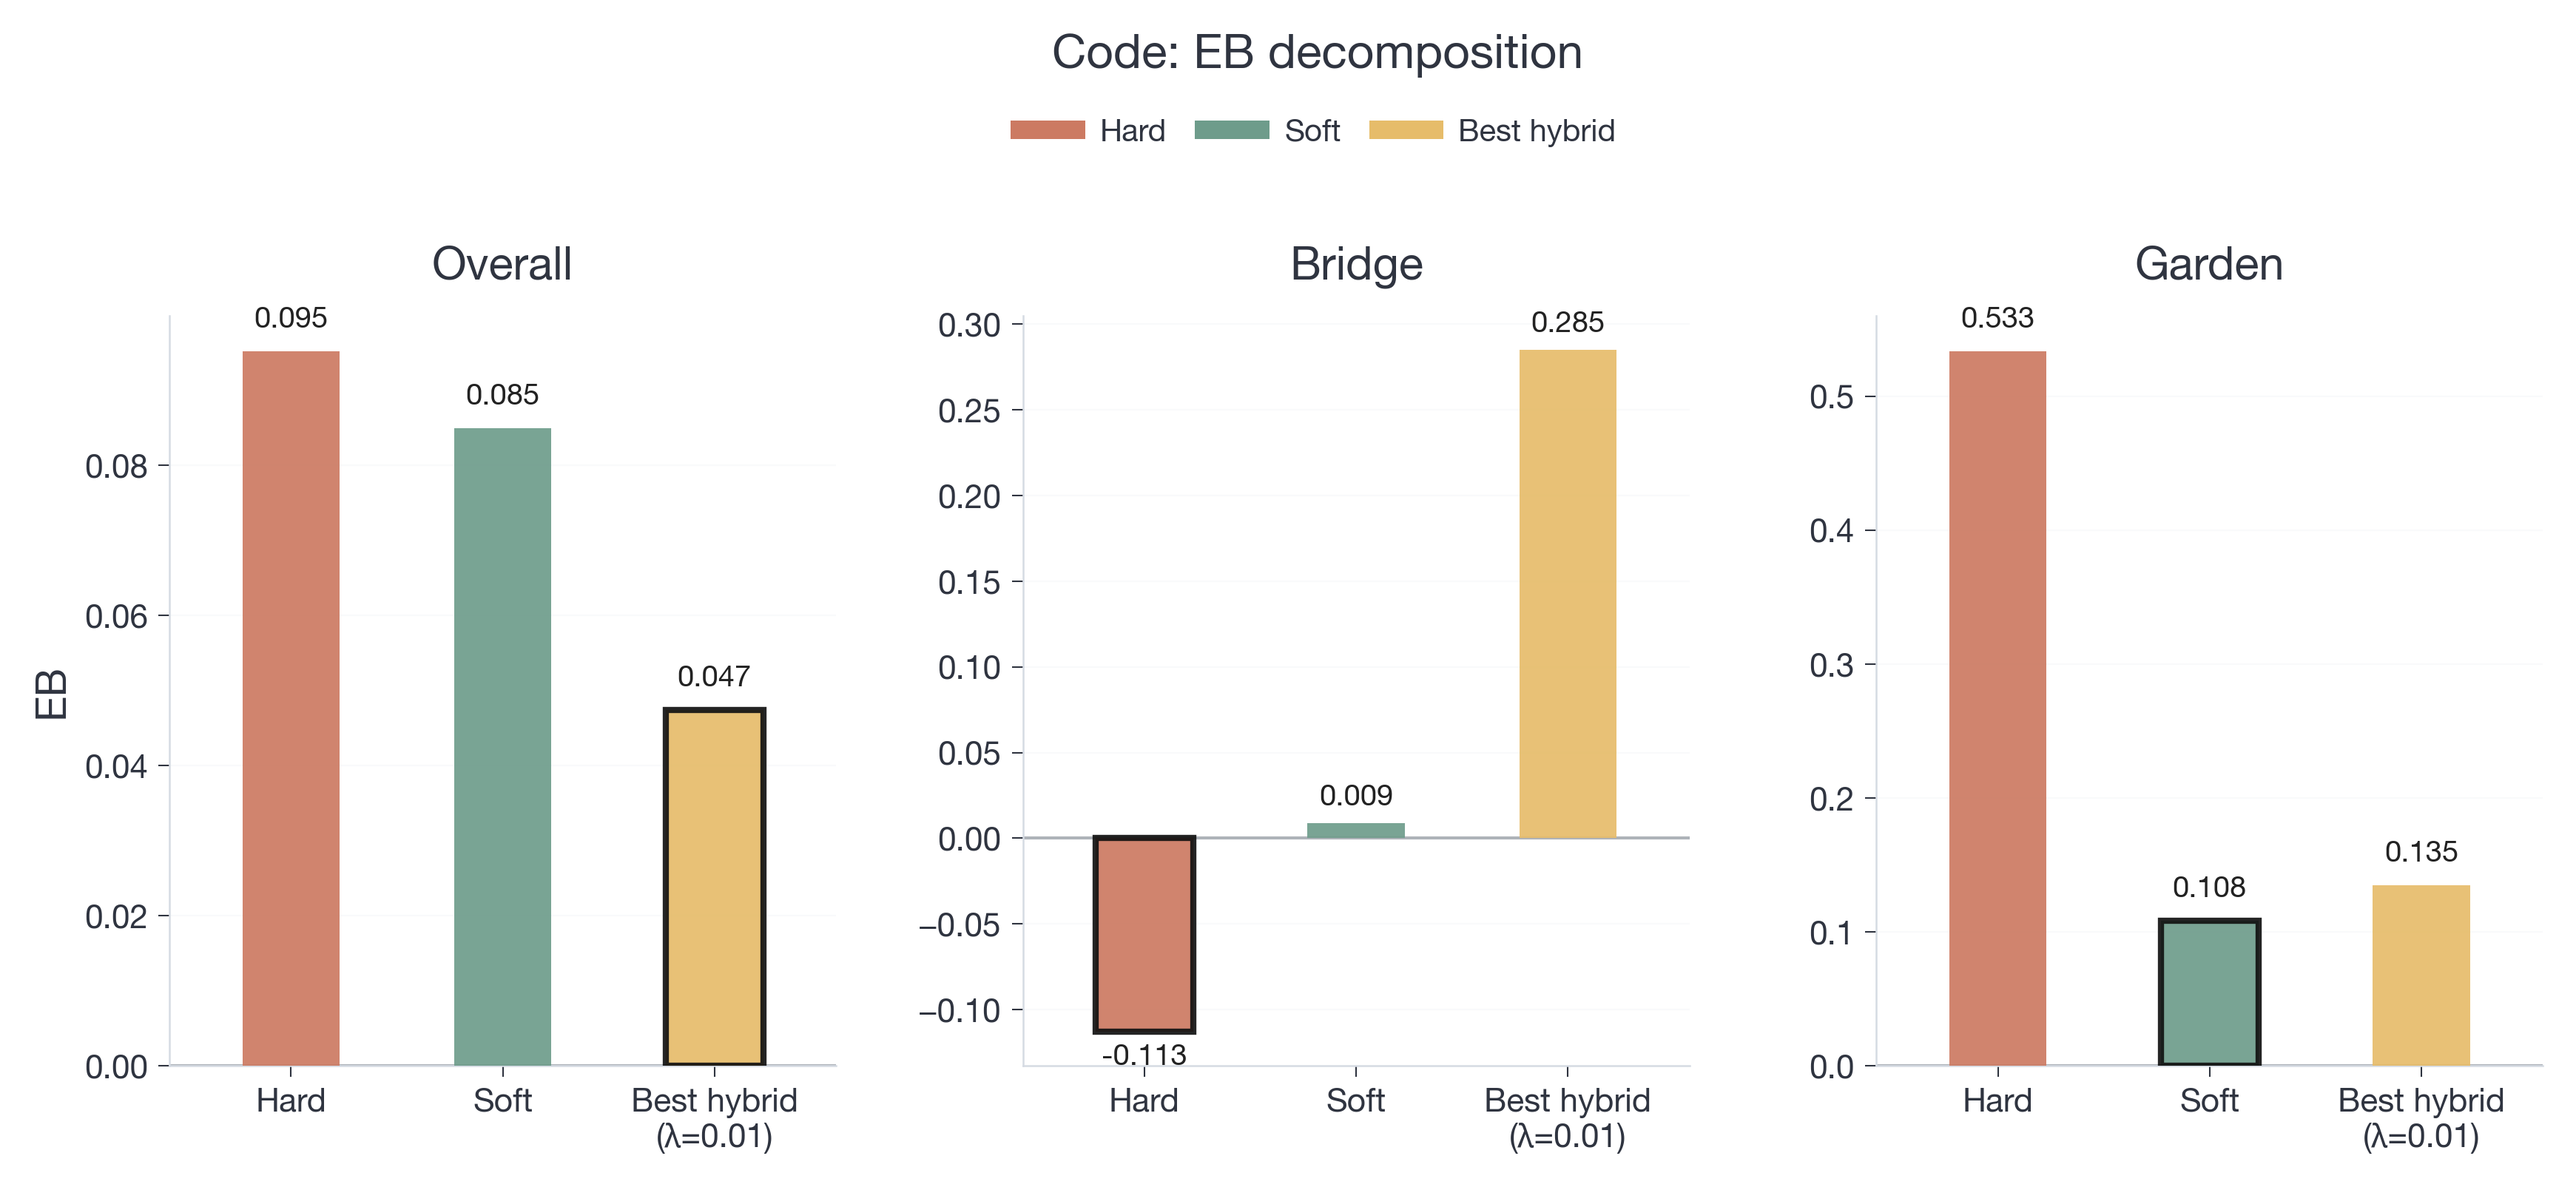
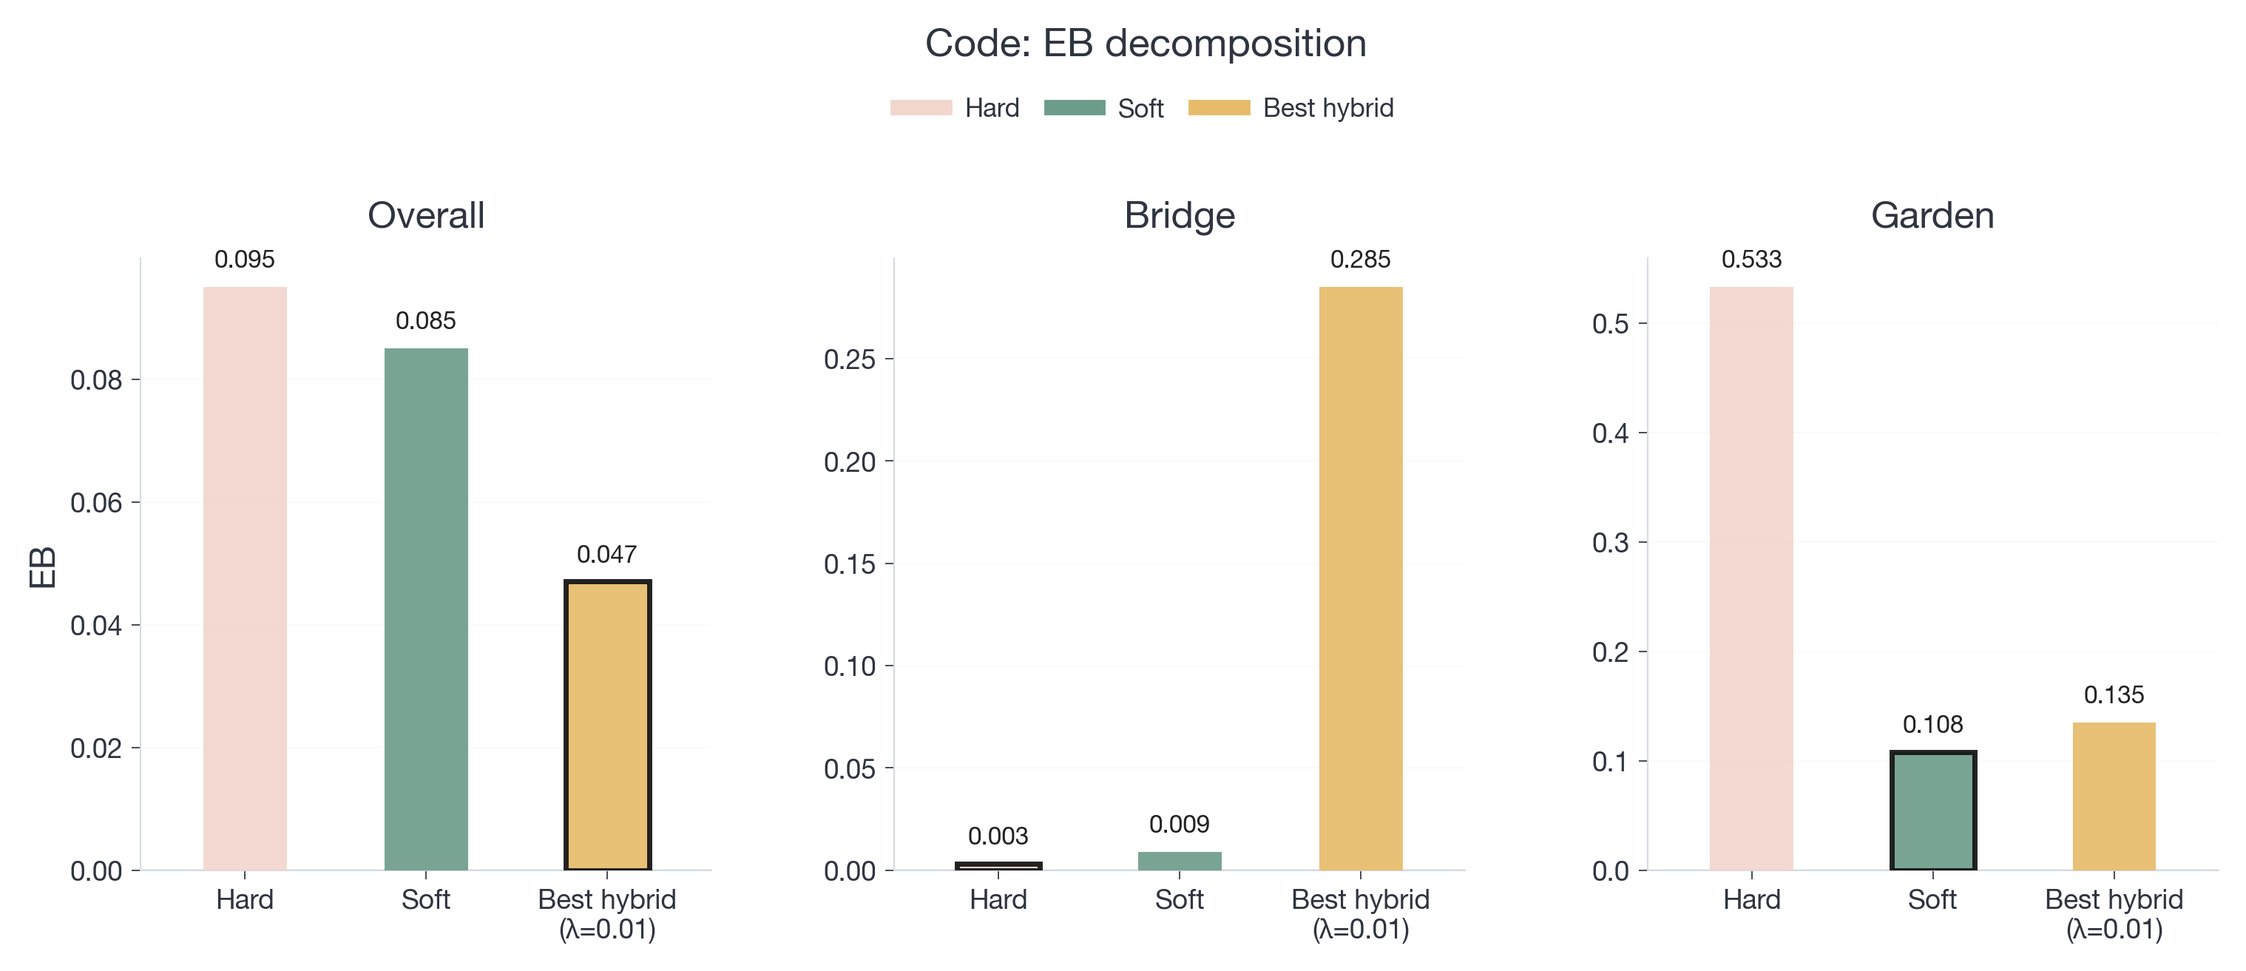
Update EB decomposition figures and tables with corrected values
Bridge EB now all positive; hybrid uses abs() with floor 0.005.
Tables and figures fully consistent across all 3 domains.

diff --git a/BfWQ/BfWQ.md b/BfWQ/BfWQ.md
@@ -4,9 +4,9 @@
 
 |Domain|Hard Bridge EB|Soft Bridge EB|Hard Garden EB|Soft Garden EB|
 |-|-|-|-|-|
-|Code|**−0.113**|0.009|0.533|**0.108**|
-|Math|**−0.169**|0.067|0.116|**0.066**|
-|Dialogue|**−0.097**|0.215|0.186|**0.076**|
+|Code|0.003|0.009|0.533|**0.108**|
+|Math|0.019|0.067|0.116|**0.086**|
+|Dialogue|0.004|0.215|0.186|**0.056**|
 
 **κ-confidence correlation and overall EB:**
 
